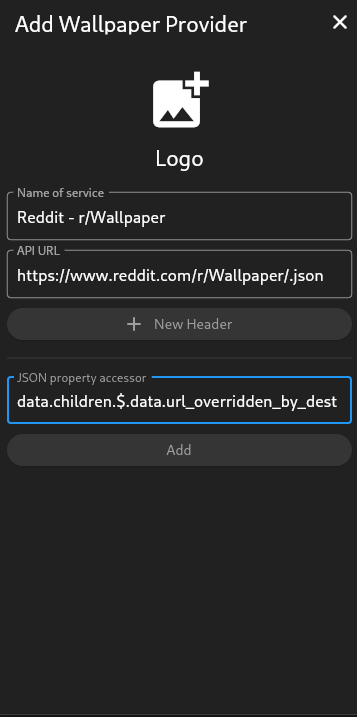
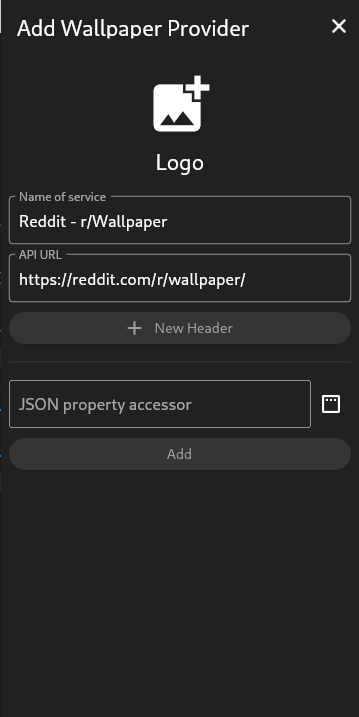
docs: add pick image URL from json screenshot

diff --git a/README.md b/README.md
@@ -31,7 +31,9 @@ You can set/edit your own custom wallpaper provider API. Just go to tap on the F
 
 Optionally, you can also set a Logo for the item too
 
+But the biggest highlight is that you can **pick image url property from JSON** which makes it really easy to set a custom wallpaper API.
 ![Screenshot-3](/assets/screenshot-3.png)
+![Screenshot-3](/assets/screenshot-4.png)
 
 ## License
 
